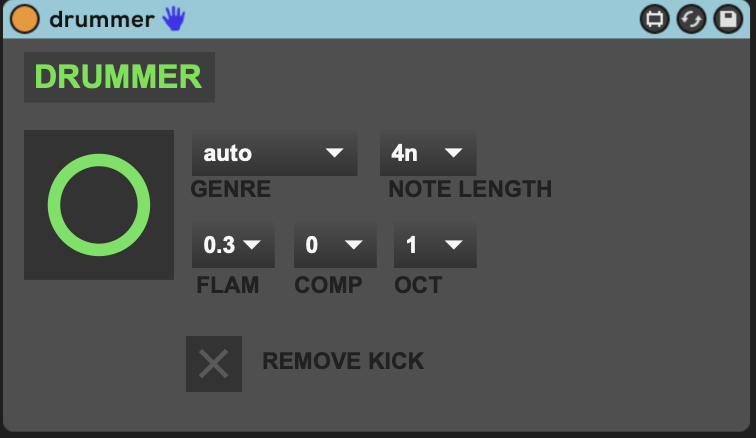
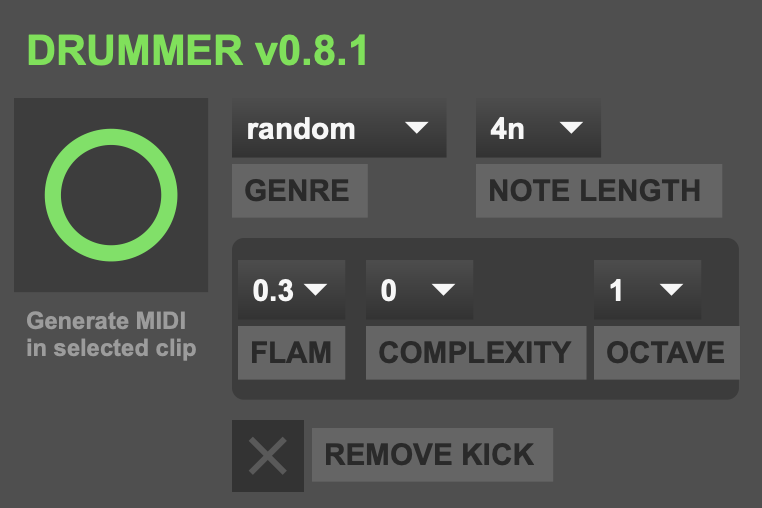
Update image and dl link for drummer

Changed region(s): [[0.0, 0.0, 1.0, 1.0], [0.7606, 0.5342, 0.9431, 0.7123]]

diff --git a/_pages/plugins.md b/_pages/plugins.md
@@ -145,7 +145,7 @@ Explore plugins and extensions that extend Scribbletune's concepts and pattern l
   
   <img src="/images/drummer.png" alt="Drummer - Max for Live device">
 
-  <p><a href="https://drive.google.com/file/d/1YuiqKTqj7lbhMboKzF_Yx23qalmeQ8SY/view?usp=sharing">Download (for Ableton Live 11)</a></p>
+  <p><a href="https://maxforlive.com/library/device.php?id=13431">Download from MaxForLive.com</a></p>
   
   <p>Instead of algorithmic generation or generic loops, Drummer is built around the "260 Drum Machine Patterns" book extending it in interesting ways.</p>
 
